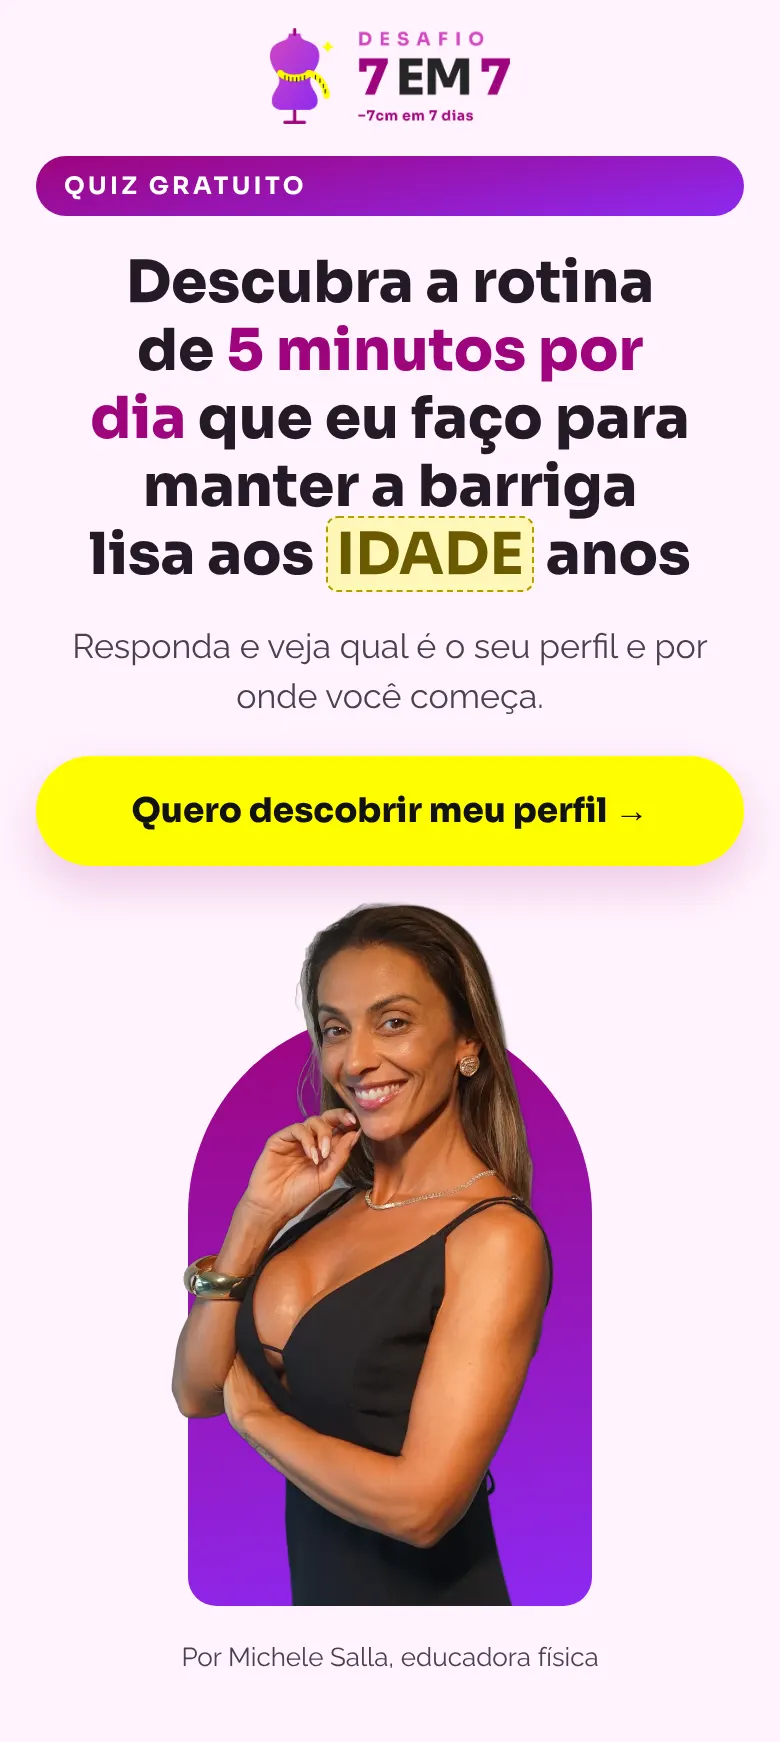
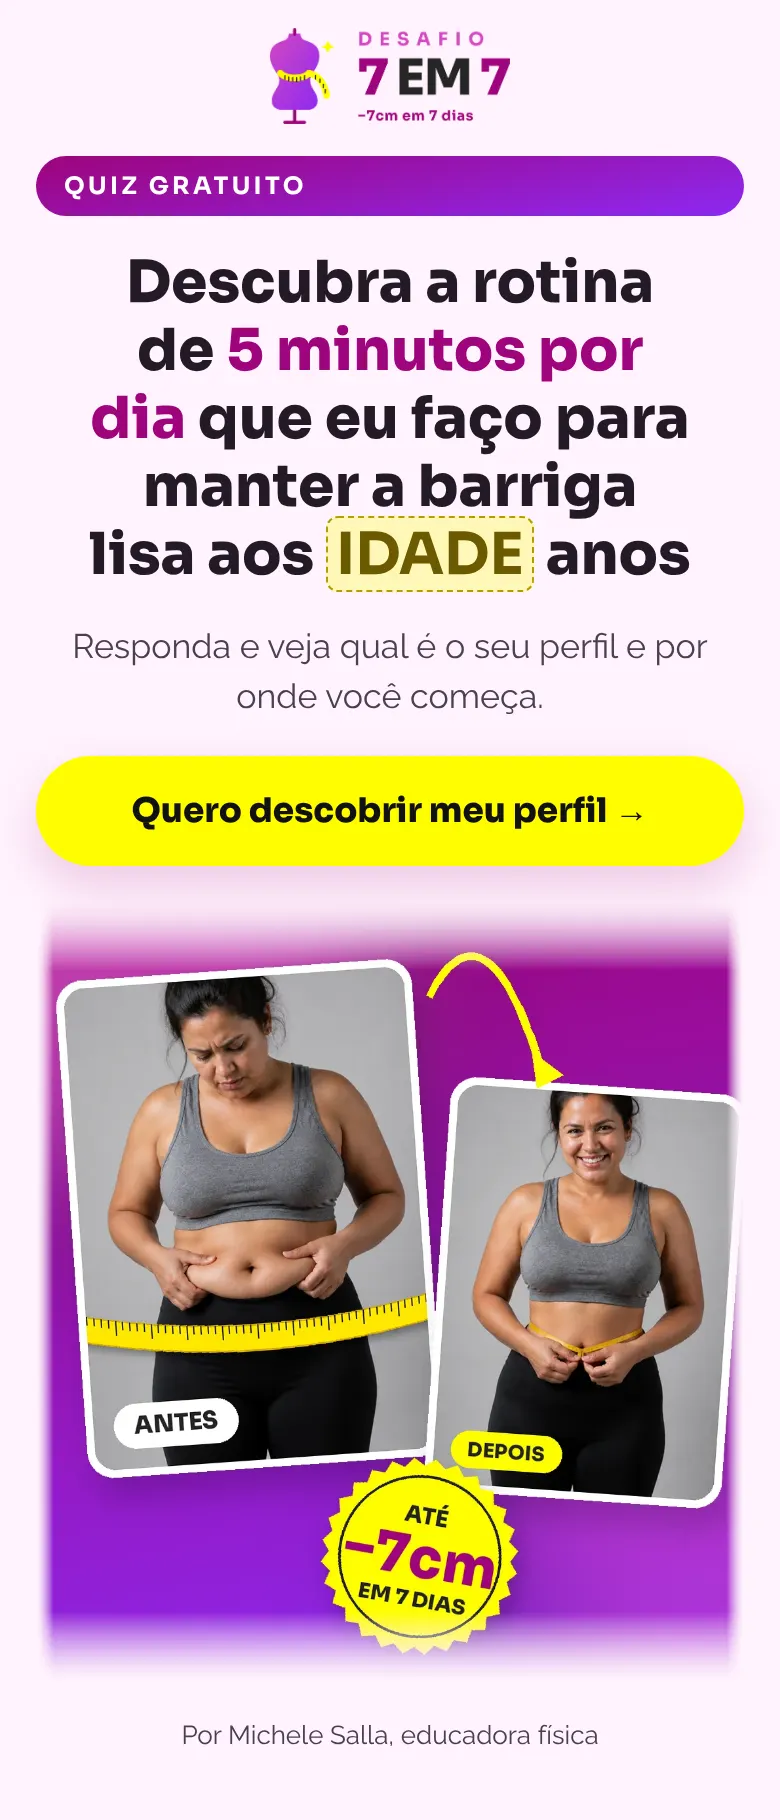
Quiz Diva: capa com o antes e depois do Desafio no lugar da foto da Michele
Claude-Session: https://claude.ai/code/session_01LYmQoangNvB5k6wY4MKJN5

diff --git a/michele-salla/quiz/index.html b/michele-salla/quiz/index.html
@@ -28,9 +28,7 @@ p{margin:0}
 .capa h1{font-size:29px;font-weight:800;text-align:center}
 .capa h1 mark,.oferta h2 mark{background:none;color:var(--roxo)}
 .capa .sub{text-align:center;color:var(--texto);font-size:17px}
-.foto-capa{position:relative;max-width:220px;margin:0 auto}
-.foto-capa::before{content:"";position:absolute;inset:16% 4% 0;border-radius:200px 200px 28px 28px;background:var(--grad)}
-.foto-capa img{position:relative}
+.foto-capa{max-width:360px;margin:0 auto}
 .pend{background:#FFF7B8;border:1.5px dashed #B59B00;border-radius:6px;padding:0 4px;color:#6B5A00;font-weight:700}
 .botao{display:block;width:100%;border:0;cursor:pointer;background:var(--amarelo);color:#111;font:800 17px/1.25 Sora,sans-serif;padding:17px 18px;border-radius:99px;text-align:center;text-decoration:none;box-shadow:0 10px 24px rgba(158,4,124,.18)}
 .botao:focus-visible,.op:focus-visible{outline:3px solid var(--violeta);outline-offset:2px}
@@ -129,7 +127,7 @@ function desenha() {
       <h1>${pend(p.titulo)}</h1>
       <p class="sub">${esc(p.sub)}</p>
       <button class="botao" onclick="vai()">${esc(p.botao)} →</button>
-      <div class="foto-capa"><img src="${IMG}michele-recorte.webp" alt="Michele Salla" width="802" height="1292"></div>
+      <div class="foto-capa"><img src="${IMG}hero-antes-depois-avatar.webp" alt="Antes e depois do Desafio 7 em 7" width="1080" height="1200"></div>
       <p class="miudo">Por Michele Salla, educadora física</p></section>`
   } else if (t.tipo === 'uma' || t.tipo === 'varias') {
     const marc = t.tipo === 'varias' ? (resp[t.id] || []) : [resp[t.id]]

diff --git a/michele-salla/PASSAGEM_BASTAO.md b/michele-salla/PASSAGEM_BASTAO.md
@@ -348,6 +348,7 @@ Os M da pasta "MICHELE LOW" são esses mesmos vídeos. Mapa conferido pelos quad
     `window.plBloco` (chama `window.plTique()` antes e depois da troca). Site `quiz` no `cliente.config.ts` (domínios: michelesalla.com.br,
     clientes-phi-six.vercel.app, painel.michelesalla.com.br). A API aceita vários sites no mesmo domínio pelo começo do slug.
     Telas abertas com `?tela=` (painel de revisão) não rastreiam. Se o quiz mudar de endereço, pôr o domínio em `outrosDominios`.
+  - **Capa (03/11, pedido do Patrik):** foto da Michele trocada pelo antes e depois do Desafio (`hero-antes-depois-avatar.webp`) nas 5 capas.
   - **Checagem dos 3 filtros do Patrik (03/11):** todos os números reconferidos na fonte. Corrigido "≈100 vendas" → 75 do produto
     principal. Posts da Michele são impulsionamentos de CLIQUE (não venda). P5 tem o maior CTR da conta ("Deixa eu te lembrar", 13,53%);
     P4 tem a prova mais fraca ("Atenção Mulher", 43 cliques, CTR 1,72%). Tirados textos sem fonte ("quiz de 1 minuto", "mil abdominais
